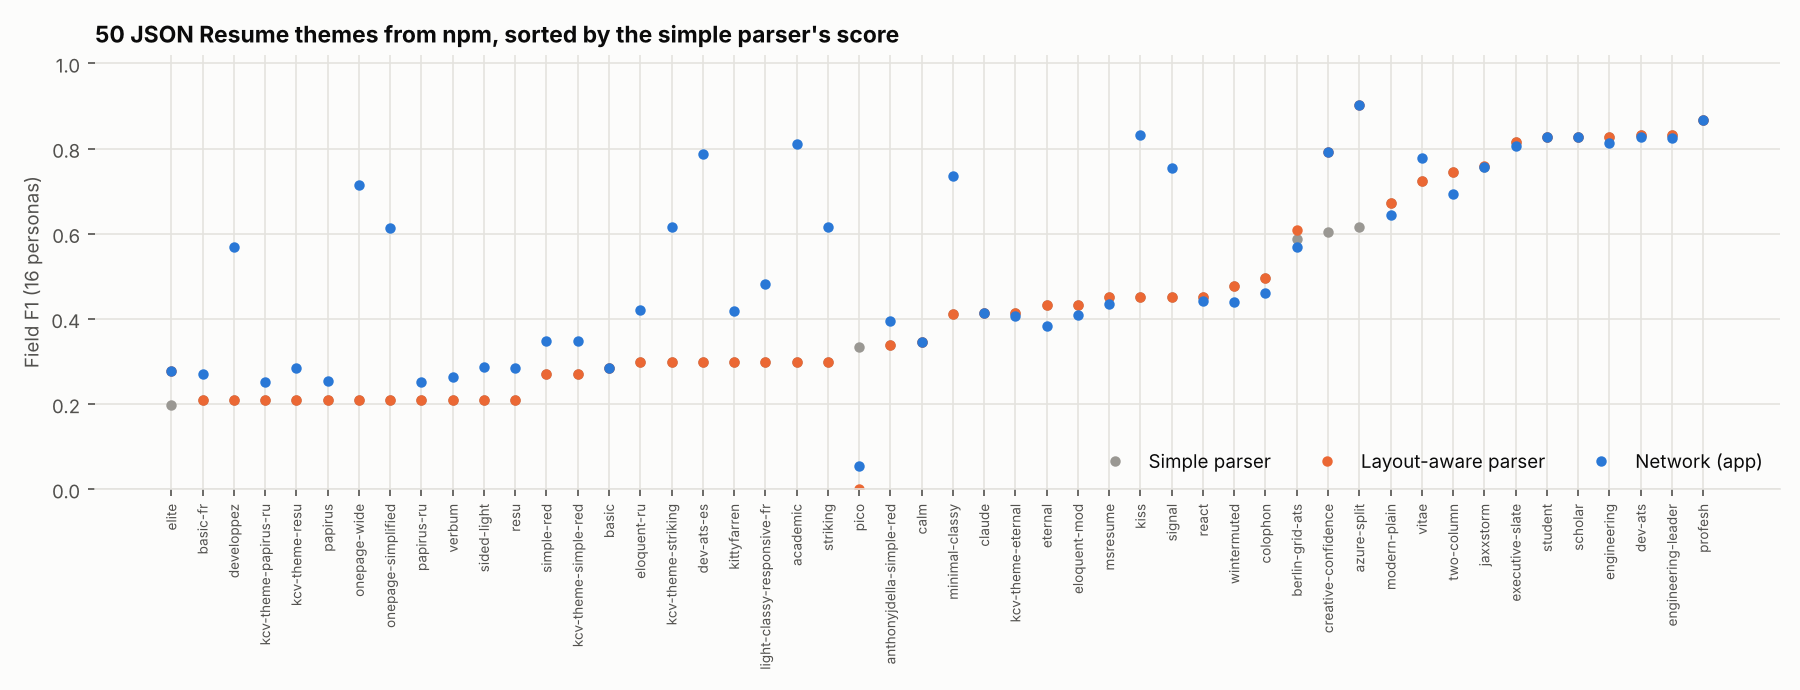
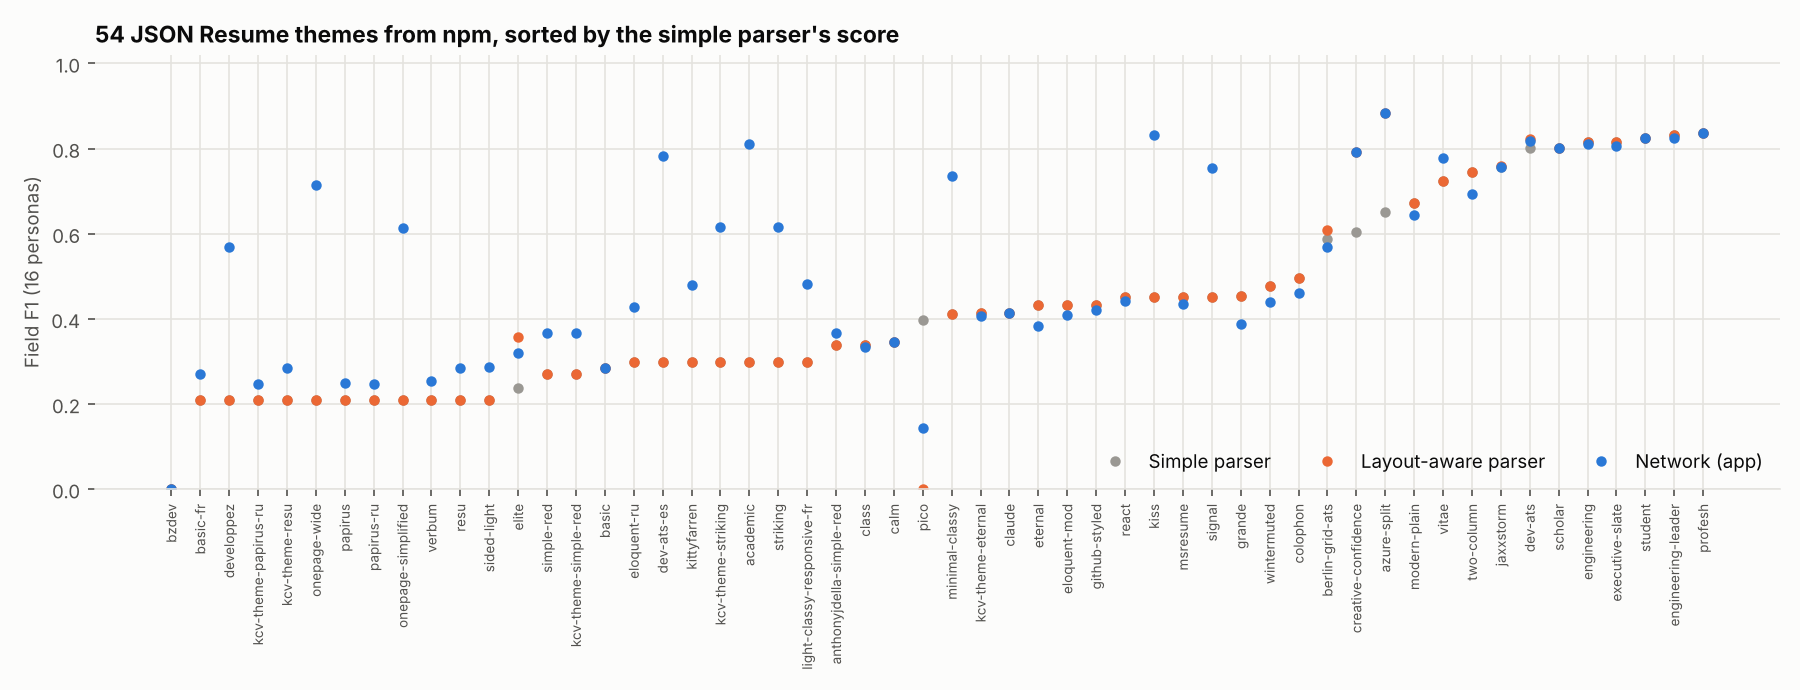
Experiment 10: 54 JSON Resume themes from npm; doubled-letter check
54 third-party themes rendered all 16 personas (864 resumes). Field F1:
simple 0.47, layout-aware 0.48, network 0.55 (= perfect-section ceiling
0.55). 40 of 54 themes below 0.5. The ceiling is the simple field rules:
experience entries 0.00 (company on its own line), field of study 0.11,
GPA 0.06. README section 10.

New parsing check: 'Every letter is read twice', for designs that draw
text twice (the bzdev theme reads 'PPrriiyyaa').

Claude-Session: https://claude.ai/code/session_01KBw3Ctbaec3tga4SsfR1MM

diff --git a/ats_sim/report.py b/ats_sim/report.py
@@ -142,6 +142,13 @@ def diagnose(path: str | Path, parsed: dict[str, ParsedResume]) -> list[dict]:
         risks.append(_risk("info", f"{cid} unmappable glyphs",
                            "Characters the PDF does not map to text, usually bullets or icons. Harmless unless "
                            "a list relies on them as separators."))
+    words = [w for w in re.findall(r"[A-Za-z]{4,}", text)]
+    doubled = [w for w in words if w[0::2] == w[1::2]]
+    if words and len(doubled) >= max(5, 0.2 * len(words)):
+        risks.append(_risk("bad", "Every letter is read twice",
+                           f"{len(doubled)} of {len(words)} words come out doubled, like "
+                           f"\u201c{doubled[0]}\u201d: the design draws its text twice (a fake bold or "
+                           "shadow), and a parser reads both copies. Keyword search finds nothing."))
     if path.suffix.lower() == ".pdf":
         import pdfplumber
 

diff --git a/tests/test_visual.py b/tests/test_visual.py
@@ -94,3 +94,14 @@ def test_a_scanned_resume_is_read_with_ocr(tmp_path):
     # what OCR reads varies a little across platforms; the email and degree are the stable signals
     assert r["parsers"]["ocr"]["email"] == "ana.ruiz@example.com"
     assert "Biology" in r["visual"]["text"] and r["parser_labels"]["ocr"] == "With OCR (scanned)"
+
+
+def test_doubled_letters_are_reported(tmp_path):
+    from ats_sim.report import diagnose
+    from ats_sim.parser import parse_text
+
+    text = "PPrriiyyaa RRaammaann\nEEDDUUCCAATTIIOONN\nBBaacchheelloorr ooff SScciieennccee\nPPyytthhoonn SSQQLL"
+    path = tmp_path / "x.txt"
+    path.write_text(text, encoding="utf-8")
+    parsed = {"naive": parse_text(text)}
+    assert any(r["title"] == "Every letter is read twice" for r in diagnose(path, parsed))

diff --git a/README.md b/README.md
@@ -428,6 +428,28 @@ An ATS reads the text stored in a PDF; a recruiter reads the rendered page. The 
 
 **Limits.** The pages are synthetic and rendered by this project; the pasted line is clean black text, easier than a real logo or chart. Small models were run on a laptop-class CPU, the setting the app runs in; a large hosted vision model would read better, but would send the resume off the computer. The VLMs were tested with one prompt or task each.
 
+### 10. Fifty-four real resume themes from npm
+
+![JSON Resume themes](results/jsonresume/jsonresume_themes.png)
+
+Every format so far was written by this project, even the ones copied from public templates. [JSON Resume](https://jsonresume.org) is an open resume format with community themes published on npm. [`scripts/jsonresume_formats.py`](scripts/jsonresume_formats.py) takes every theme tagged `jsonresume-theme` (72, of which 70 are MIT-licensed; list in [data/jsonresume_themes.json](data/jsonresume_themes.json)), installs it with install scripts off, renders each of the 16 personas through it with Node, and prints the HTML to a Letter PDF with Chromium. 55 themes rendered; 54 rendered all 16 personas (864 resumes). Nothing from the themes is committed, only the list and aggregate results. The answer key is still the persona, so field F1 is exact; line labels come from matching each line to the persona and the theme's own HTML headings (`ats_sim/jsonresume.py`).
+
+| On 54 themes nobody here designed | Simple parser | Layout-aware parser | Network (app, text only) | Perfect sections (ceiling) |
+|---|---|---|---|---|
+| Field F1, all 864 resumes | 0.47 | 0.48 | **0.55** | 0.55 |
+| Median theme | 0.40 | 0.38 | 0.45 | |
+
+**What it shows.**
+
+- **Most real designs defeat the simple parser.** 40 of 54 themes score below 0.5. The best (profesh, engineering, student, executive-slate) reach 0.82 to 0.84, about what this project's own clean templates score.
+- **The network helps where headings are the problem.** It gains 0.15 or more over the layout-aware parser on 12 themes (developpez 0.21 to 0.57, academic 0.30 to 0.81, kiss 0.45 to 0.83), mostly themes with unusual or non-English section titles, and it reaches the perfect-section ceiling overall. It is worse by more than 0.05 on only 2.
+- **The ceiling is the field rules, not the sections.** With perfect sections the score is still 0.55. Recall of the layout-aware parser by field: email 0.95, name 0.80, phone 0.74, degree 0.50, school 0.50, grad date 0.36, skills 0.23, field of study 0.11, GPA 0.06, **experience entries 0.00**. The simple parser's rules expect "Title, Company" on one line, "B.S. in Field" and a labeled "GPA"; JSON Resume themes put the company on its own line or first, print the degree and field apart, show the GPA as a bare score, and often print dates as 2026-06-01. These are limits of this simulator's simple parser, which models a basic ATS; commercial parsers handle more formats, so read this as "which designs break simple rules", not as a measurement of any product.
+- **One theme breaks text extraction outright.** bzdev draws every character twice (a fake-bold effect), so the text layer reads "PPrriiyyaa RRaammaann" and every parser scores 0. A new parsing check now reports this ("Every letter is read twice"); before, the visual check caught it only as unreadable text.
+
+**A bug found on the way (disclosed because it changed the numbers).** The first run rendered every theme in one Node process. Themes share moment.js, and a French or Russian theme set its global locale, so every theme rendered after it printed its dates as "juin 2026" or "сент. 2025", and the parsers could not read them. Each theme now renders in its own process. The fix raised grad-date recall from 0.22 to 0.36 and let 4 more themes render.
+
+**Limits.** 16 personas per theme, so per-theme numbers are noisy (each is 16 resumes). Some themes print headings in French, Spanish, Russian or Indonesian; the English heading list cannot read those, which is realistic for those themes but makes them harder than an English resume in the same design. The themes are what is on npm today, a convenience sample of developer-made designs.
+
 ## Check your own resume
 
 ```bash
